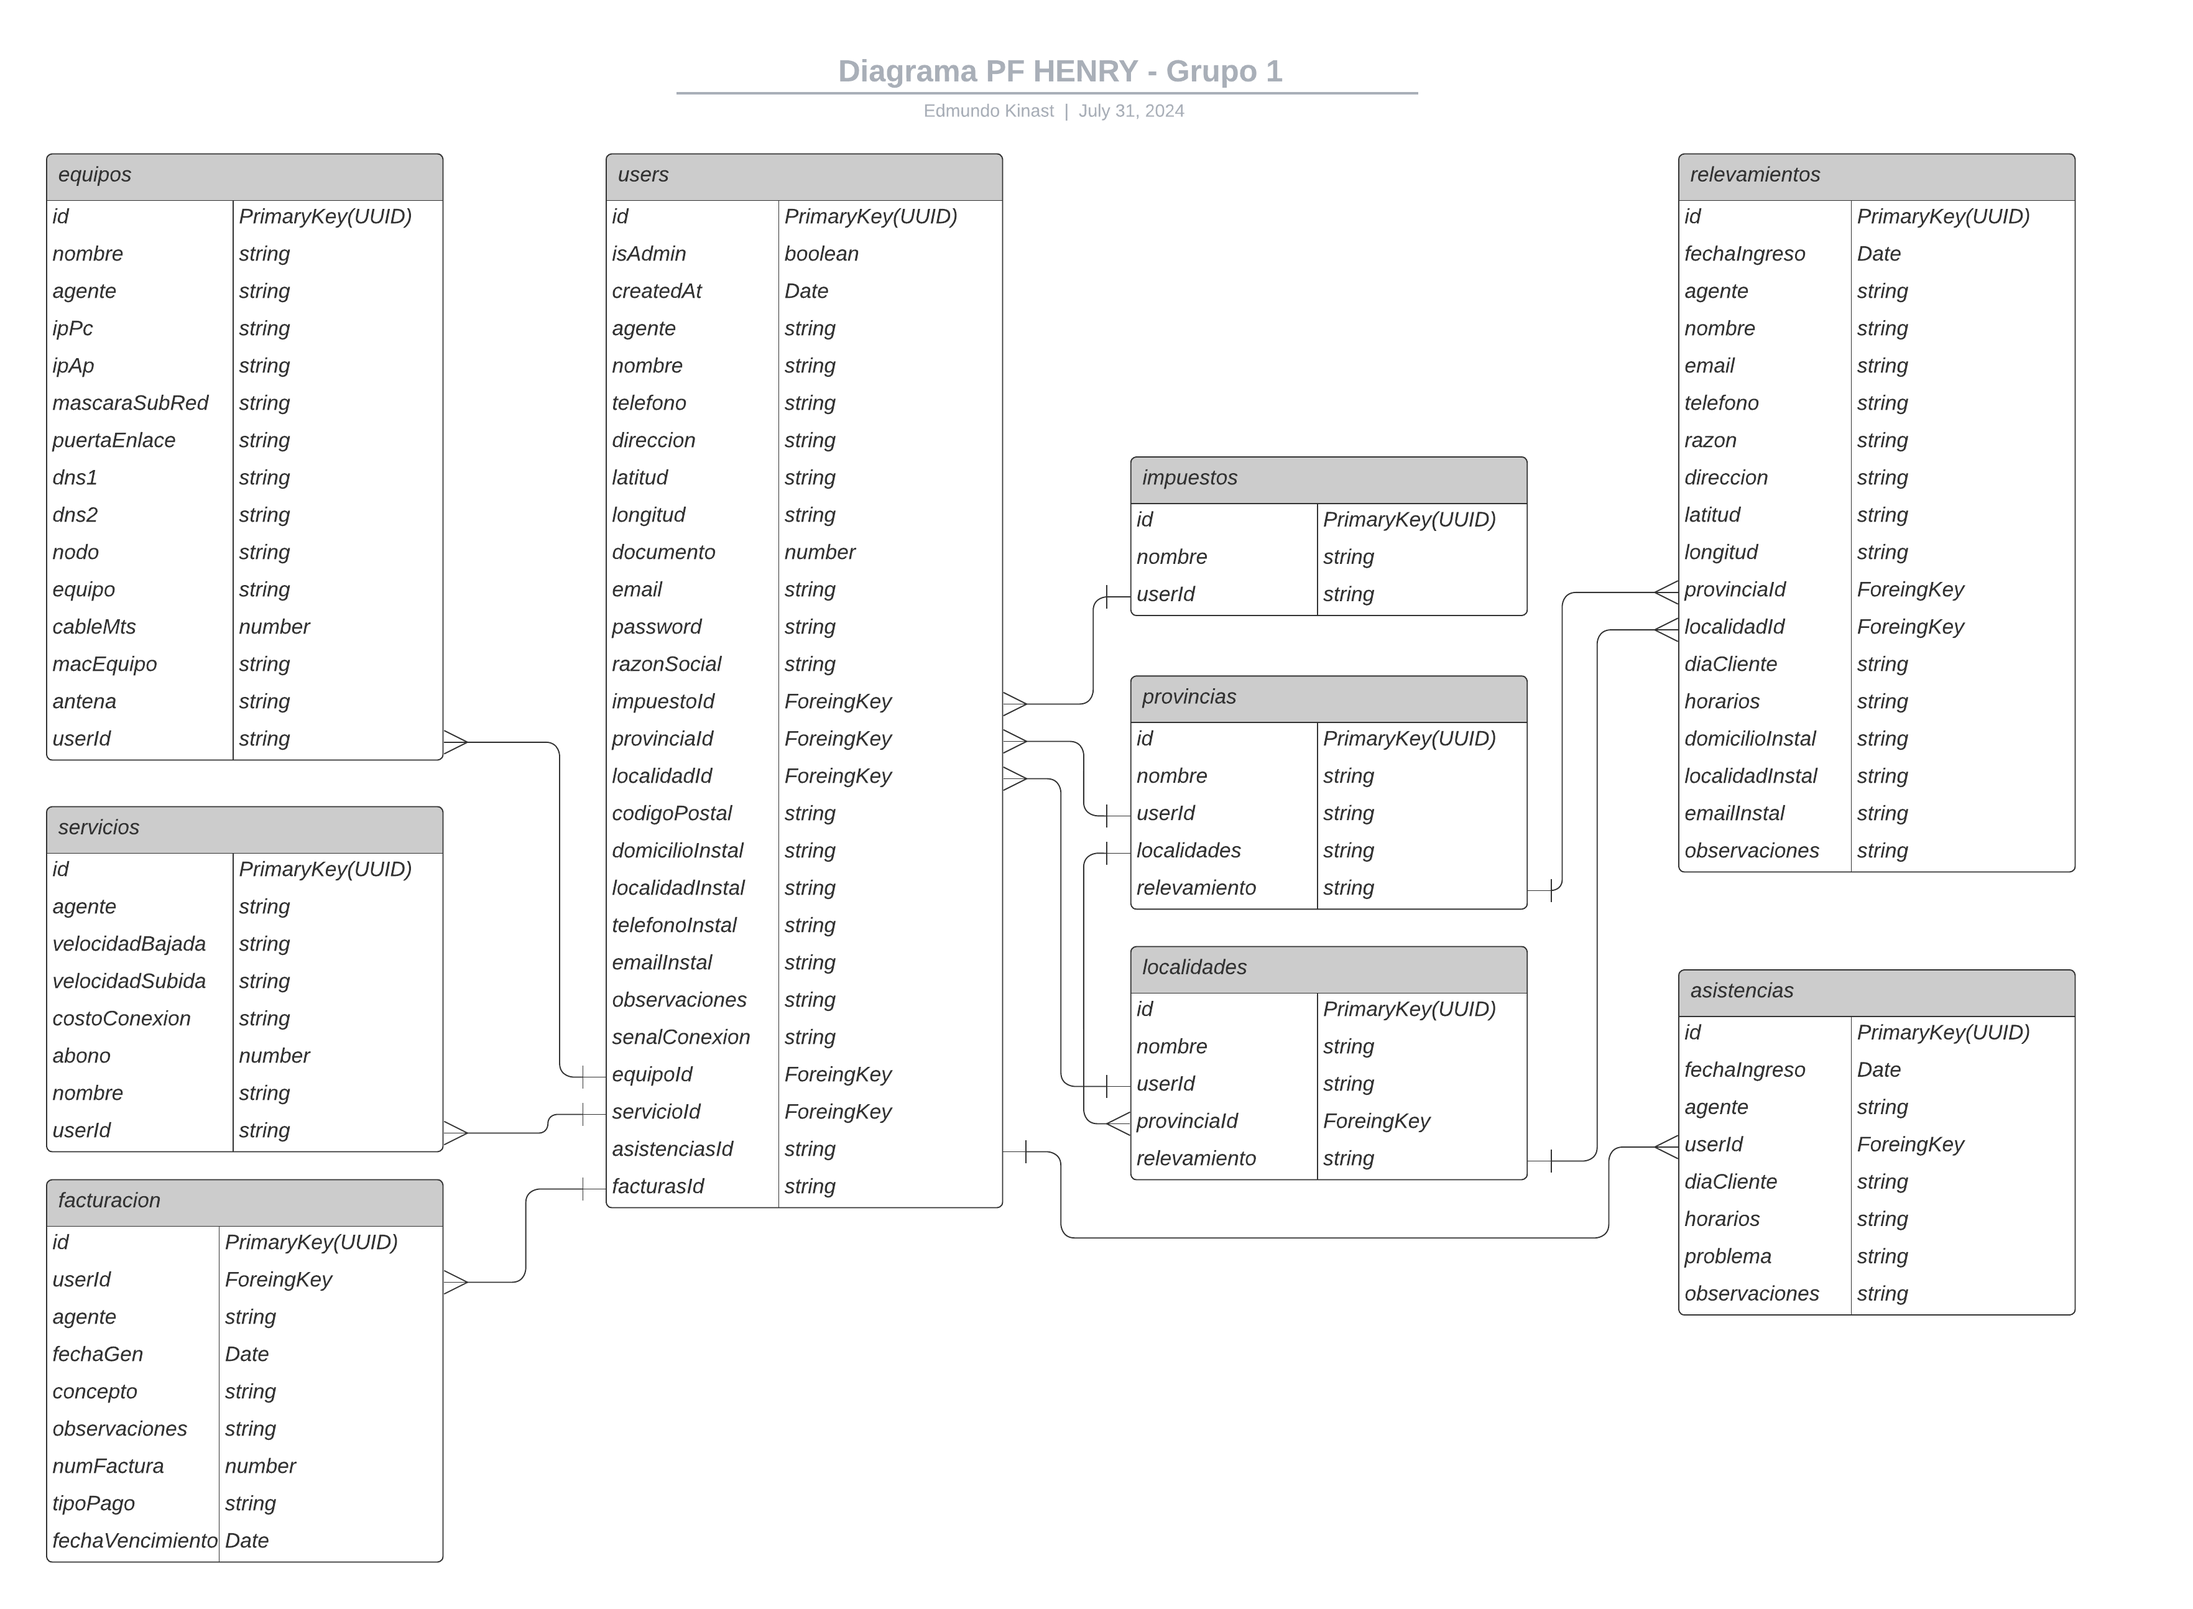
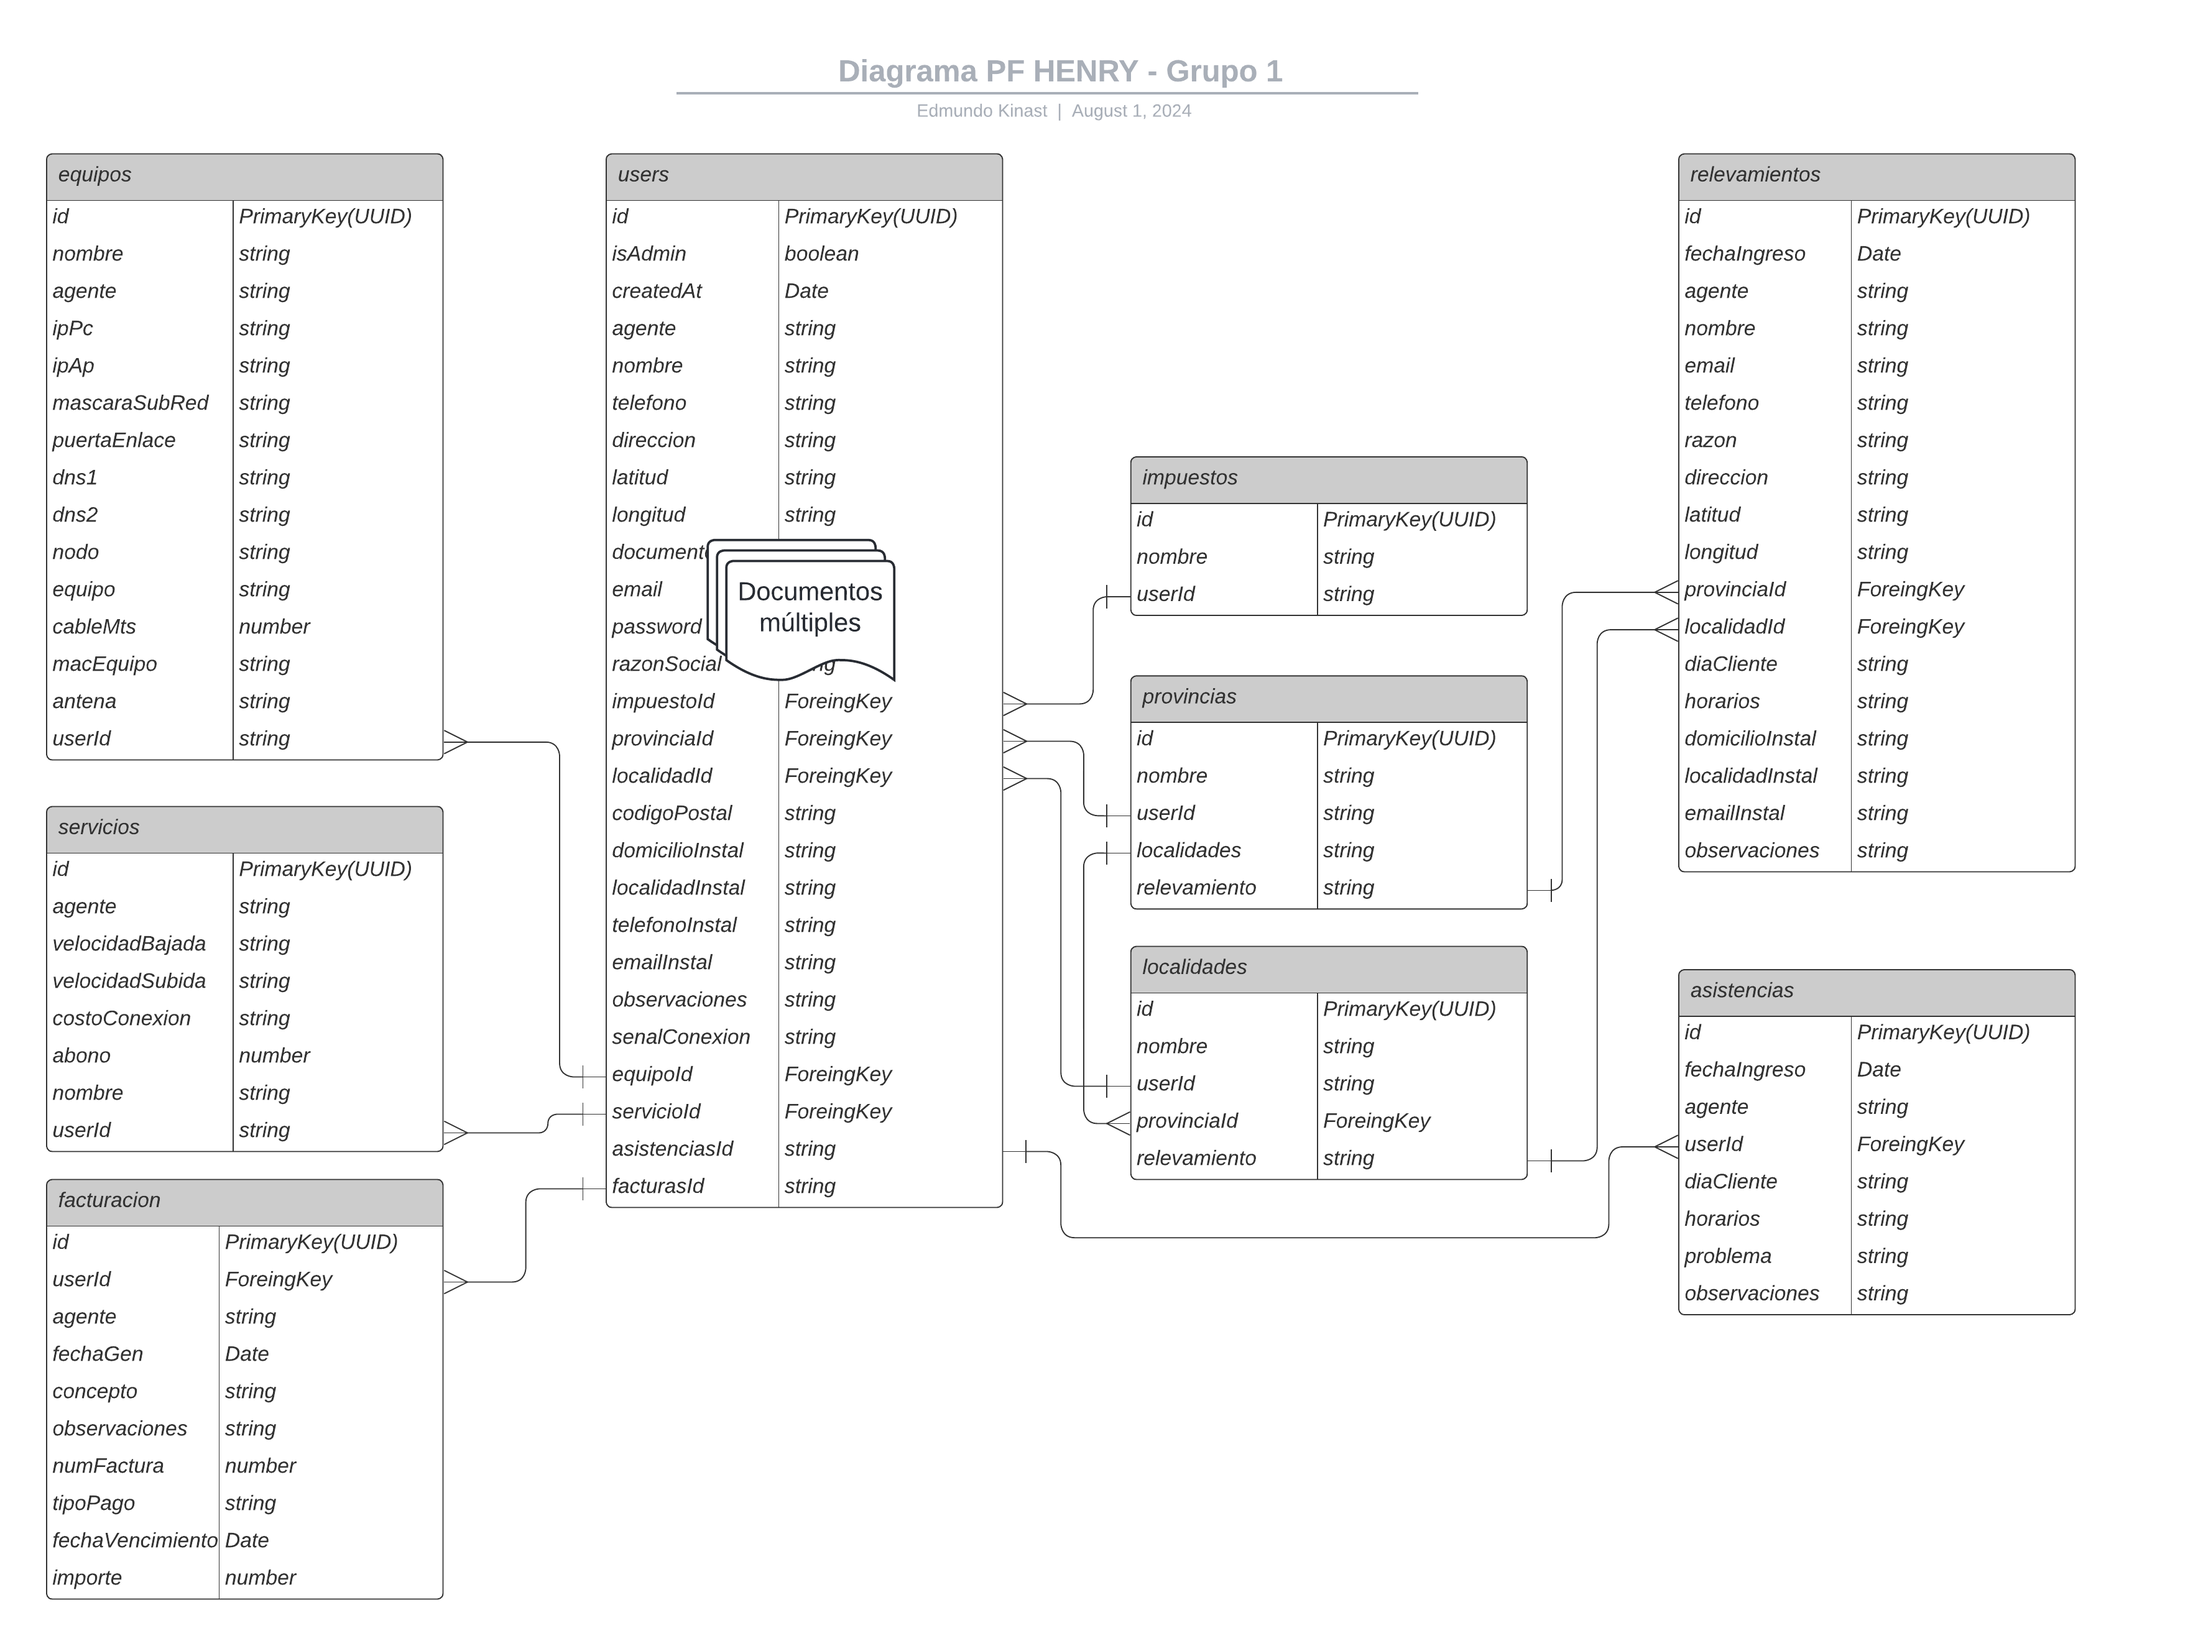
Empezando con facturación

diff --git a/src/modules/facturacion/dto/create-facturacion.dto.ts b/src/modules/facturacion/dto/create-facturacion.dto.ts
@@ -1,1 +1,115 @@
-export class CreateFacturacionDto {}
+import { ApiHideProperty, ApiProperty } from '@nestjs/swagger';
+import {
+  IsDate,
+  IsNotEmpty,
+  IsOptional,
+  IsString,
+  IsUUID,
+} from 'class-validator';
+import { addMinutes } from 'date-fns';
+import { Transform } from 'class-transformer';
+
+export class CreateFacturacionDto {
+  @ApiHideProperty()
+  @IsUUID()
+  @IsOptional()
+  userId?: string;
+
+  @IsOptional({
+    message: 'El agente es obligatorio y no puede estar vacío.',
+  })
+  @IsString({ message: 'El agente es cargado automáticamente' })
+  @ApiHideProperty()
+  agente: string;
+
+  @ApiProperty({
+    description: 'La fecha de creación de la factura.',
+    example: '2023-12-31T23:59:59.999Z',
+  })
+  @IsDate({ message: 'fechaGen debe ser una instancia de Date' })
+  @Transform(
+    ({ value }) => {
+      const date = new Date(value);
+      if (isNaN(date.getTime())) {
+        throw new Error('Invalid date format');
+      }
+      return date;
+    },
+    { toClassOnly: true },
+  )
+  fechaGen: Date;
+
+  @IsNotEmpty({
+    message: 'El concepto es obligatorio y no puede estar vacío.',
+  })
+  @IsString({ message: 'El concepto lleva el nombre del servicio' })
+  @ApiProperty({
+    description: 'El servicio debe ser válido.',
+    example: '6/2',
+    type: String,
+  })
+  concepto: string;
+
+  @IsNotEmpty()
+  @IsString({ message: 'Las observaciones deben ser una cadena de texto.' })
+  @ApiProperty({
+    description: 'Las observaciones deben contener el mes de la factura.',
+    example: 'Septiembre',
+    type: String,
+  })
+  observaciones: string;
+
+  @IsNotEmpty()
+  @ApiProperty({
+    description: 'El número de factura debe ser válido.',
+    example: 12345,
+    type: Number,
+  })
+  numFactura: number;
+
+  @IsNotEmpty()
+  @IsString({ message: 'El tipo de pago debe ser una cadena de texto.' })
+  @ApiProperty({
+    description: 'El tipo de pago debe contener la forma de pago.',
+    example: 'Contado',
+    type: String,
+  })
+  tipoPago: string;
+
+  @ApiProperty({
+    description: 'La fecha de vencimiento de la factura.',
+    example: '2023-12-31T23:59:59.999Z',
+  })
+  @IsDate({ message: 'fechaVencimiento debe ser una instancia de Date' })
+  @Transform(
+    ({ value }) => {
+      const date = new Date(value);
+      if (isNaN(date.getTime())) {
+        throw new Error('Invalid date format');
+      }
+      return date;
+    },
+    { toClassOnly: true },
+  )
+  fechaVencimiento: Date;
+
+  @IsNotEmpty()
+  @ApiProperty({
+    description: 'El número de factura debe ser válido.',
+    example: 12345,
+    type: Number,
+  })
+  importe: number;
+
+  constructor() {
+    this.fechaGen = this.getLocalDate();
+    this.fechaVencimiento = this.fechaVencimiento || new Date();
+  }
+
+  private getLocalDate(): Date {
+    const now = new Date();
+    const offsetInMinutes = now.getTimezoneOffset();
+    const fecha = addMinutes(now, -offsetInMinutes);
+    return fecha;
+  }
+}

diff --git a/src/modules/users/entities/user.entity.ts b/src/modules/users/entities/user.entity.ts
@@ -61,15 +61,21 @@ export class User {
   @Column({ length: 60, nullable: true, default: 'no declarado' })
   razonSocial: string;
 
-  @ManyToOne(() => Impuesto, (impuesto) => impuesto.users, {onDelete:'SET NULL'})
+  @ManyToOne(() => Impuesto, (impuesto) => impuesto.users, {
+    onDelete: 'SET NULL',
+  })
   @JoinColumn({ name: 'impuestoId' })
   impuesto: Impuesto;
 
-  @ManyToOne(() => Provincia, (provincia) => provincia.users, {onDelete:'SET NULL'})
+  @ManyToOne(() => Provincia, (provincia) => provincia.users, {
+    onDelete: 'SET NULL',
+  })
   @JoinColumn({ name: 'provinciaId' })
   provincia: Provincia;
 
-  @ManyToOne(() => Localidad, (localidad) => localidad.users, {onDelete:'SET NULL'})
+  @ManyToOne(() => Localidad, (localidad) => localidad.users, {
+    onDelete: 'SET NULL',
+  })
   @JoinColumn({ name: 'localidadId' })
   localidad: Localidad;
 
@@ -88,16 +94,22 @@ export class User {
   @Column()
   emailInstal: string;
 
-  @Column({nullable:true})
+  @Column({ nullable: true })
   observaciones: string;
 
-  @Column({nullable:true})
+  @Column({ nullable: true })
   senalConexion: string;
 
-  @OneToMany(() => Equipo, (equipo) => equipo.user,{nullable:true, onDelete:'SET NULL'})
+  @OneToMany(() => Equipo, (equipo) => equipo.user, {
+    nullable: true,
+    onDelete: 'SET NULL',
+  })
   equipos: Equipo[];
 
-  @OneToMany(() => Servicio, (servicio) => servicio.user,{nullable:true, onDelete:'SET NULL'})
+  @OneToMany(() => Servicio, (servicio) => servicio.user, {
+    nullable: true,
+    onDelete: 'SET NULL',
+  })
   servicios: Servicio[];
 
   @OneToMany(() => Factura, (factura) => factura.user)

diff --git a/src/seeds/seeds.module.ts b/src/seeds/seeds.module.ts
@@ -12,6 +12,8 @@ import { Impuesto } from '../modules/impuestos/entities/impuesto.entity';
 import { ImpuestosSeed } from './impuestos/impuestos.seed';
 import { Servicio } from '../modules/servicios/entities/servicio.entity';
 import { ServiciosSeed } from './servicios/servicios.seed';
+import { FacturacionSeed } from './facturacion/facturacion.seed';
+import { Factura } from '../modules/facturacion/entities/facturacion.entity';
 
 @Module({
   imports: [
@@ -22,6 +24,7 @@ import { ServiciosSeed } from './servicios/servicios.seed';
       Equipo,
       Impuesto,
       Servicio,
+      Factura,
     ]),
   ],
   providers: [
@@ -31,6 +34,7 @@ import { ServiciosSeed } from './servicios/servicios.seed';
     EquiposSeed,
     ImpuestosSeed,
     ServiciosSeed,
+    FacturacionSeed,
   ],
   exports: [
     ProvinciasSeed,
@@ -39,6 +43,7 @@ import { ServiciosSeed } from './servicios/servicios.seed';
     EquiposSeed,
     ImpuestosSeed,
     ServiciosSeed,
+    FacturacionSeed,
   ],
 })
 // export class SeedsModule {}
@@ -50,6 +55,7 @@ export class SeedsModule implements OnModuleInit {
     private readonly impuestosSeed: ImpuestosSeed,
     private readonly serviciosSeed: ServiciosSeed,
     private readonly usersSeed: UsersSeed,
+    private readonly facturacionSeed: FacturacionSeed,
   ) {}
 
   async onModuleInit() {
@@ -59,5 +65,6 @@ export class SeedsModule implements OnModuleInit {
     await this.impuestosSeed.seed();
     await this.serviciosSeed.seed();
     await this.usersSeed.seed();
+    await this.facturacionSeed.seed();
   }
 }

diff --git a/src/seeds/facturacion/facturacion.seed.ts b/src/seeds/facturacion/facturacion.seed.ts
@@ -1,0 +1,38 @@
+import { Injectable } from '@nestjs/common';
+import { InjectRepository } from '@nestjs/typeorm';
+import { Repository } from 'typeorm';
+import { FacturacionMock } from './facturacion.mock';
+import { Factura } from '../../modules/facturacion/entities/facturacion.entity';
+
+@Injectable()
+export class FacturacionSeed {
+  constructor(
+    @InjectRepository(Factura)
+    private readonly facturasRepository: Repository<Factura>,
+  ) {}
+
+  async seed() {
+    // Ver si hay facturas cargadas
+    console.log('Seed facturación inicializado');
+    // Obtener todas las facturas existentes de una vez
+    const hayFacturas = (await this.facturasRepository.find()).map(
+      (factura) => factura.numFactura,
+    );
+
+    for (const facturasData of FacturacionMock) {
+      if (!hayFacturas.includes(facturasData.numFactura)) {
+        const factura = new Factura();
+        factura.agente = facturasData.agente;
+        factura.fechaGen = facturasData.fechaGen;
+        factura.concepto = facturasData.concepto;
+        factura.observaciones = facturasData.observaciones;
+        factura.numFactura = facturasData.numFactura;
+        factura.tipoPago = facturasData.tipoPago;
+        factura.fechaVencimiento = facturasData.fechaVencimiento;
+        factura.importe = facturasData.importe;
+        await this.facturasRepository.save(factura);
+        console.log(`Factura ${factura.numFactura} guardado en la DB`);
+      }
+    }
+  }
+}

diff --git a/src/modules/facturacion/facturacion.controller.ts b/src/modules/facturacion/facturacion.controller.ts
@@ -1,8 +1,18 @@
-import { Controller, Get, Post, Body, Patch, Param, Delete } from '@nestjs/common';
+import {
+  Controller,
+  Get,
+  Post,
+  Body,
+  Patch,
+  Param,
+  Delete,
+} from '@nestjs/common';
 import { FacturacionService } from './facturacion.service';
 import { CreateFacturacionDto } from './dto/create-facturacion.dto';
 import { UpdateFacturacionDto } from './dto/update-facturacion.dto';
+import { ApiTags } from '@nestjs/swagger';
 
+@ApiTags('Facturación')
 @Controller('facturacion')
 export class FacturacionController {
   constructor(private readonly facturacionService: FacturacionService) {}
@@ -23,7 +33,10 @@ export class FacturacionController {
   }
 
   @Patch(':id')
-  update(@Param('id') id: string, @Body() updateFacturacionDto: UpdateFacturacionDto) {
+  update(
+    @Param('id') id: string,
+    @Body() updateFacturacionDto: UpdateFacturacionDto,
+  ) {
     return this.facturacionService.update(+id, updateFacturacionDto);
   }
 

diff --git a/src/modules/facturacion/entities/facturacion.entity.ts b/src/modules/facturacion/entities/facturacion.entity.ts
@@ -8,8 +8,11 @@ export class Factura {
   @PrimaryGeneratedColumn('uuid')
   id: string;
 
-  @ManyToOne(() => User, (user) => user.facturas, { nullable: false })
-  user: User;
+  @ManyToOne(() => User, (user) => user.facturas, {
+    nullable: true,
+    onDelete: 'SET NULL',
+  })
+  user?: User;
 
   @Column({ length: 50, nullable: false })
   agente: string;
@@ -39,4 +42,16 @@ export class Factura {
     nullable: false,
   })
   fechaVencimiento: Date;
+
+  @Column({
+    type: 'decimal',
+    precision: 10,
+    scale: 2,
+    nullable: false,
+    transformer: {
+      to: (value: number) => value,
+      from: (value: string) => parseFloat(value),
+    },
+  })
+  importe: number;
 }

diff --git a/src/modules/users/dto/create-user.dto.ts b/src/modules/users/dto/create-user.dto.ts
@@ -10,8 +10,6 @@ import {
   IsUUID,
   Length,
   Matches,
-  Max,
-  Min,
 } from 'class-validator';
 import { Transform } from 'class-transformer';
 import { addMinutes } from 'date-fns';
@@ -153,7 +151,8 @@ export class CreateUserDto {
   @IsOptional()
   @IsUUID()
   @IsNotEmpty({
-    message: 'El id del impuesto es obligatorio y debe ser un id UUID válido. El default es el id de consumidor final',
+    message:
+      'El id del impuesto es obligatorio y debe ser un id UUID válido. El default es el id de consumidor final',
   })
   // @ApiProperty({
   //   description: 'El id del impuesto debe ser un id UUID válido.',

diff --git a/src/seeds/facturacion/facturacion.mock.ts b/src/seeds/facturacion/facturacion.mock.ts
@@ -1,0 +1,22 @@
+export const FacturacionMock = [
+  {
+    agente: 'SeedAdmin',
+    fechaGen: new Date('2024-07-27T00:00:00.000Z'),
+    concepto: '6/2',
+    observaciones: 'Factura de prueba',
+    numFactura: 1,
+    tipoPago: 'Efectivo',
+    fechaVencimiento: new Date('2024-08-12T00:00:00.000Z'),
+    importe: 9000,
+  },
+  {
+    agente: 'SeedAdmin',
+    fechaGen: new Date('2024-07-27T00:00:00.000Z'),
+    concepto: '30/7.5',
+    observaciones: 'Factura de prueba',
+    numFactura: 2,
+    tipoPago: 'Cheque',
+    fechaVencimiento: new Date('2024-08-12T00:00:00.000Z'),
+    importe: 14000,
+  },
+];

diff --git a/src/modules/servicios/entities/servicio.entity.ts b/src/modules/servicios/entities/servicio.entity.ts
@@ -32,6 +32,9 @@ export class Servicio {
   @Column({ nullable: false })
   nombre: string;
 
-  @ManyToOne(() => User, (user) => user.servicios, { nullable: true, onDelete:'SET NULL' })
+  @ManyToOne(() => User, (user) => user.servicios, {
+    nullable: true,
+    onDelete: 'SET NULL',
+  })
   user?: User;
 }

diff --git a/src/config/typeorm.ts b/src/config/typeorm.ts
@@ -16,7 +16,7 @@ const config = {
   extra: {
     timezone: 'America/Buenos_Aires', // Establecer la zona horaria aquí
   },
-  // dropSchema: true,
+  //dropSchema: true,
   //logging: true,
   logging: ['error'],
   entities: ['dist/**/*.entity{.js,.ts}'],
